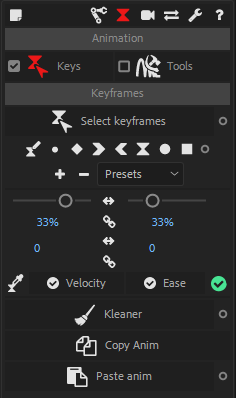
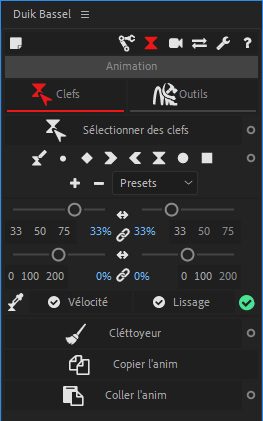
new predefined values for interpolations
Former-commit-id: b2cf0b382b408bdc4ab7599e402fd4eb4369de85

diff --git a/src-docs/duik/docs/duik-16-changelog.md b/src-docs/duik/docs/duik-16-changelog.md
@@ -30,6 +30,7 @@ This is the list of what has changed since the first Alpha version of Duik Basse
 
 - Reimplemented the [_TVPaint_] import tool from Duik 15.
 - Added **German translation**.
+- The interpolation adjustment tools in the [***Keyframes***](keyframe-tools.md) has been greatly improved, with sliders for velocity and buttons with useful predefined values.
 
 #### Improvements
 
